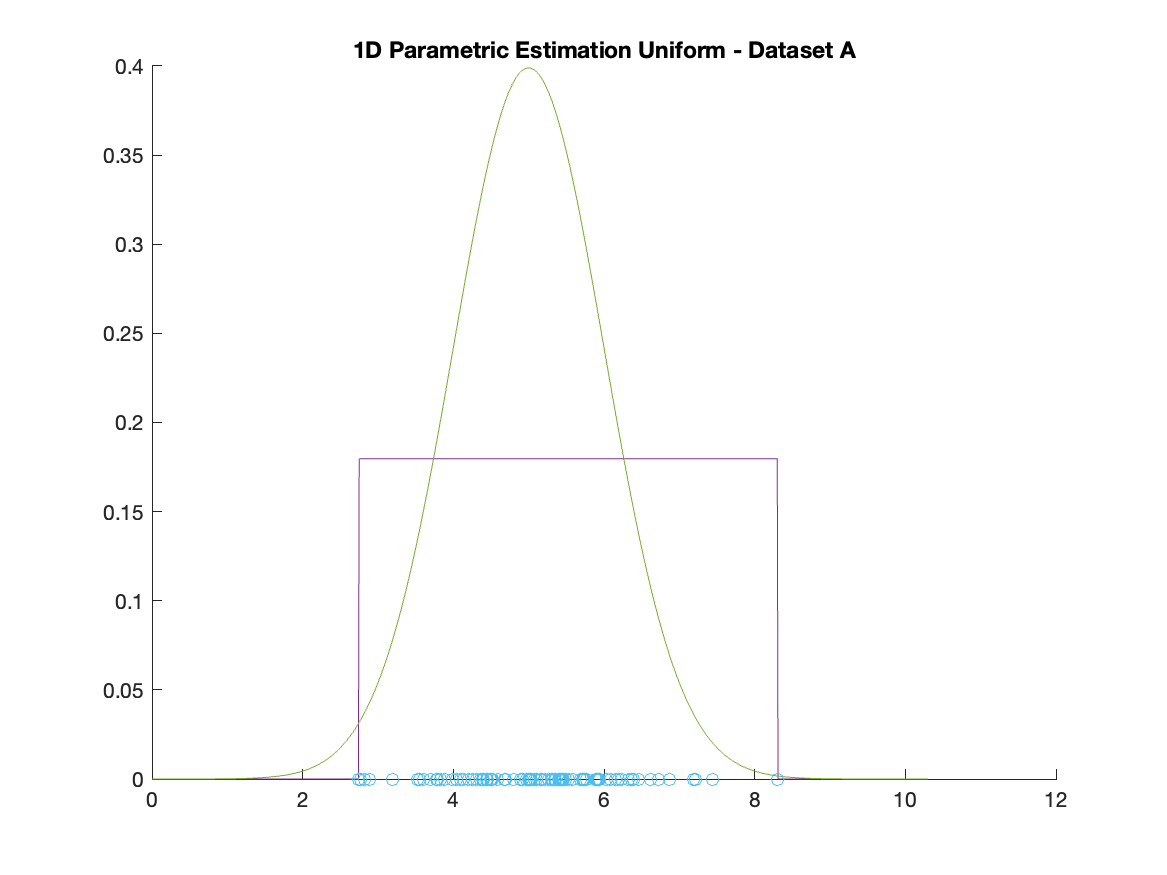
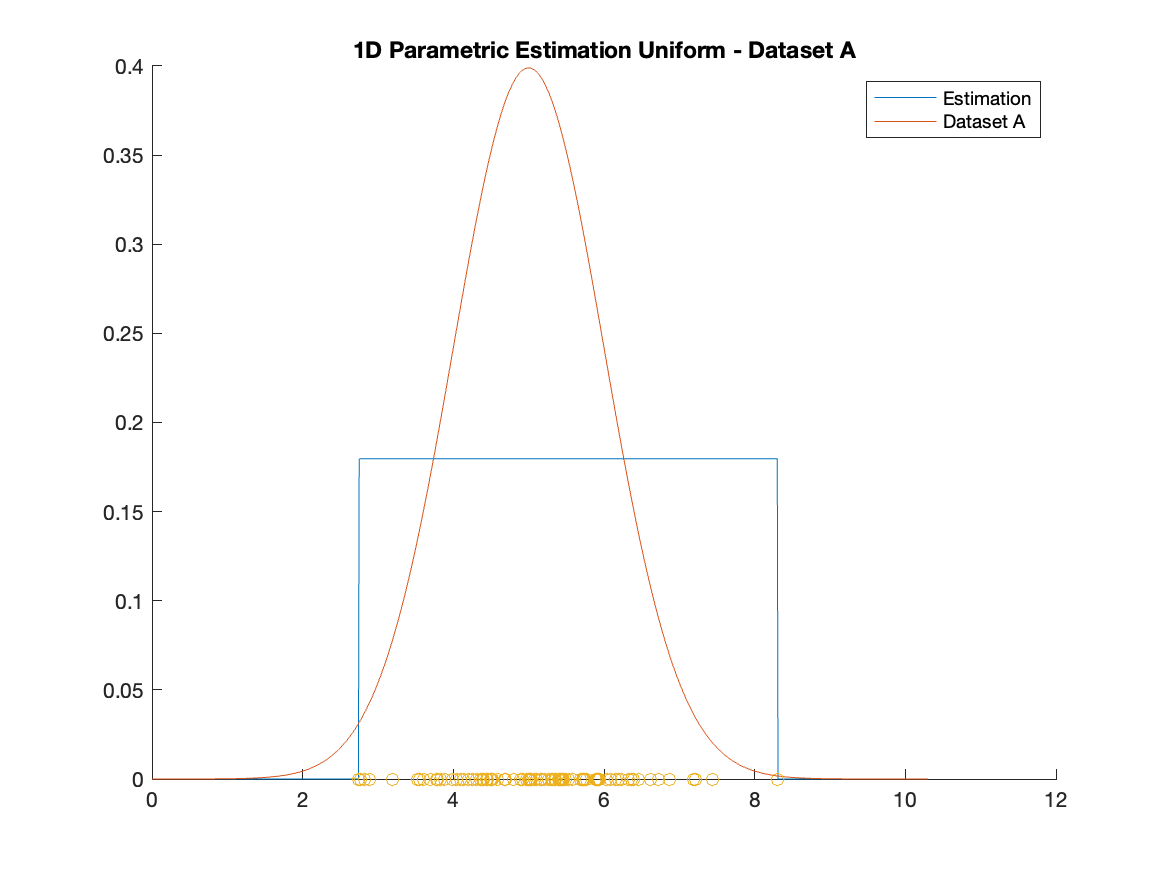
add legends

diff --git a/lab2/estimation_1D.m b/lab2/estimation_1D.m
@@ -27,6 +27,7 @@ hold on;
 plot(x, uniform_dist_a);
 plot(x, normal_dist_a);
 scatter(a, y);
+legend("Estimation", "Dataset A")
 saveas(gcf, "figures/1D_uniform_A.png")
 hold off;
 
@@ -51,6 +52,7 @@ hold on;
 plot(x, uniform_dist_b);
 plot(x, exp_dist_b);
 scatter(b, y);
+legend("Estimation", "Dataset B")
 saveas(gcf, "figures/1D_uniform_B.png")
 hold off;
 
@@ -73,6 +75,7 @@ hold on;
 plot(x, non_param_a_1);
 plot(x, normal_dist_a);
 scatter(a, y);
+legend("Estimation", "Dataset A")
 saveas(gcf, "figures/1D_non_parametric_0_1_A.png")
 hold off;
 
@@ -82,6 +85,7 @@ hold on;
 plot(x, non_param_a_2);
 plot(x, normal_dist_a);
 scatter(a, y);
+legend("Estimation", "Dataset A")
 saveas(gcf, "figures/1D_non_parametric_0_4_A.png")
 hold off;
 
@@ -104,6 +108,7 @@ title("1D Non-Parametric Estimation - Dataset B STD 0.1")
 plot(x, non_param_b_1);
 plot(x, exp_dist_b);
 scatter(b, y);
+legend("Estimation", "Dataset B")
 saveas(gcf, "figures/1D_non_parametric_0_1_B.png")
 hold off;
 
@@ -113,6 +118,7 @@ title("1D Non-Parametric Estimation - Dataset B STD 0.4")
 plot(x, non_param_b_2);
 plot(x, exp_dist_b);
 scatter(b, y);
+legend("Estimation", "Dataset B")
 saveas(gcf, "figures/1D_non_parametric_0_4_B.png")
 hold off;
 
@@ -141,6 +147,7 @@ hold on;
 plot(x, gaussian_dist_a);
 plot(x, normal_dist_a);
 scatter(a, y);
+legend("Estimation", "Dataset A")
 saveas(gcf, "figures/1D_gaussian_A.png")
 hold off;
 
@@ -151,6 +158,7 @@ hold on;
 plot(x, exponential_dist_a);
 plot(x, normal_dist_a);
 scatter(a, y);
+legend("Estimation", "Dataset A")
 saveas(gcf, "figures/1D_exponential_A.png")
 hold off;
 
@@ -180,6 +188,7 @@ hold on;
 plot(x, gaussian_dist_b);
 plot(x, exp_dist_b);
 scatter(b, y);
+legend("Estimation", "Dataset B")
 saveas(gcf, "figures/1D_gaussian_B.png")
 hold off;
 
@@ -190,6 +199,7 @@ hold on;
 title("1D Parametric Estimation Exponential - Dataset B")
 plot(x, exponential_dist_b);
 plot(x, exp_dist_b);
+legend("Estimation", "Dataset B")
 scatter(b, y);
 saveas(gcf, "figures/1D_exponential_B.png")
 hold off;
